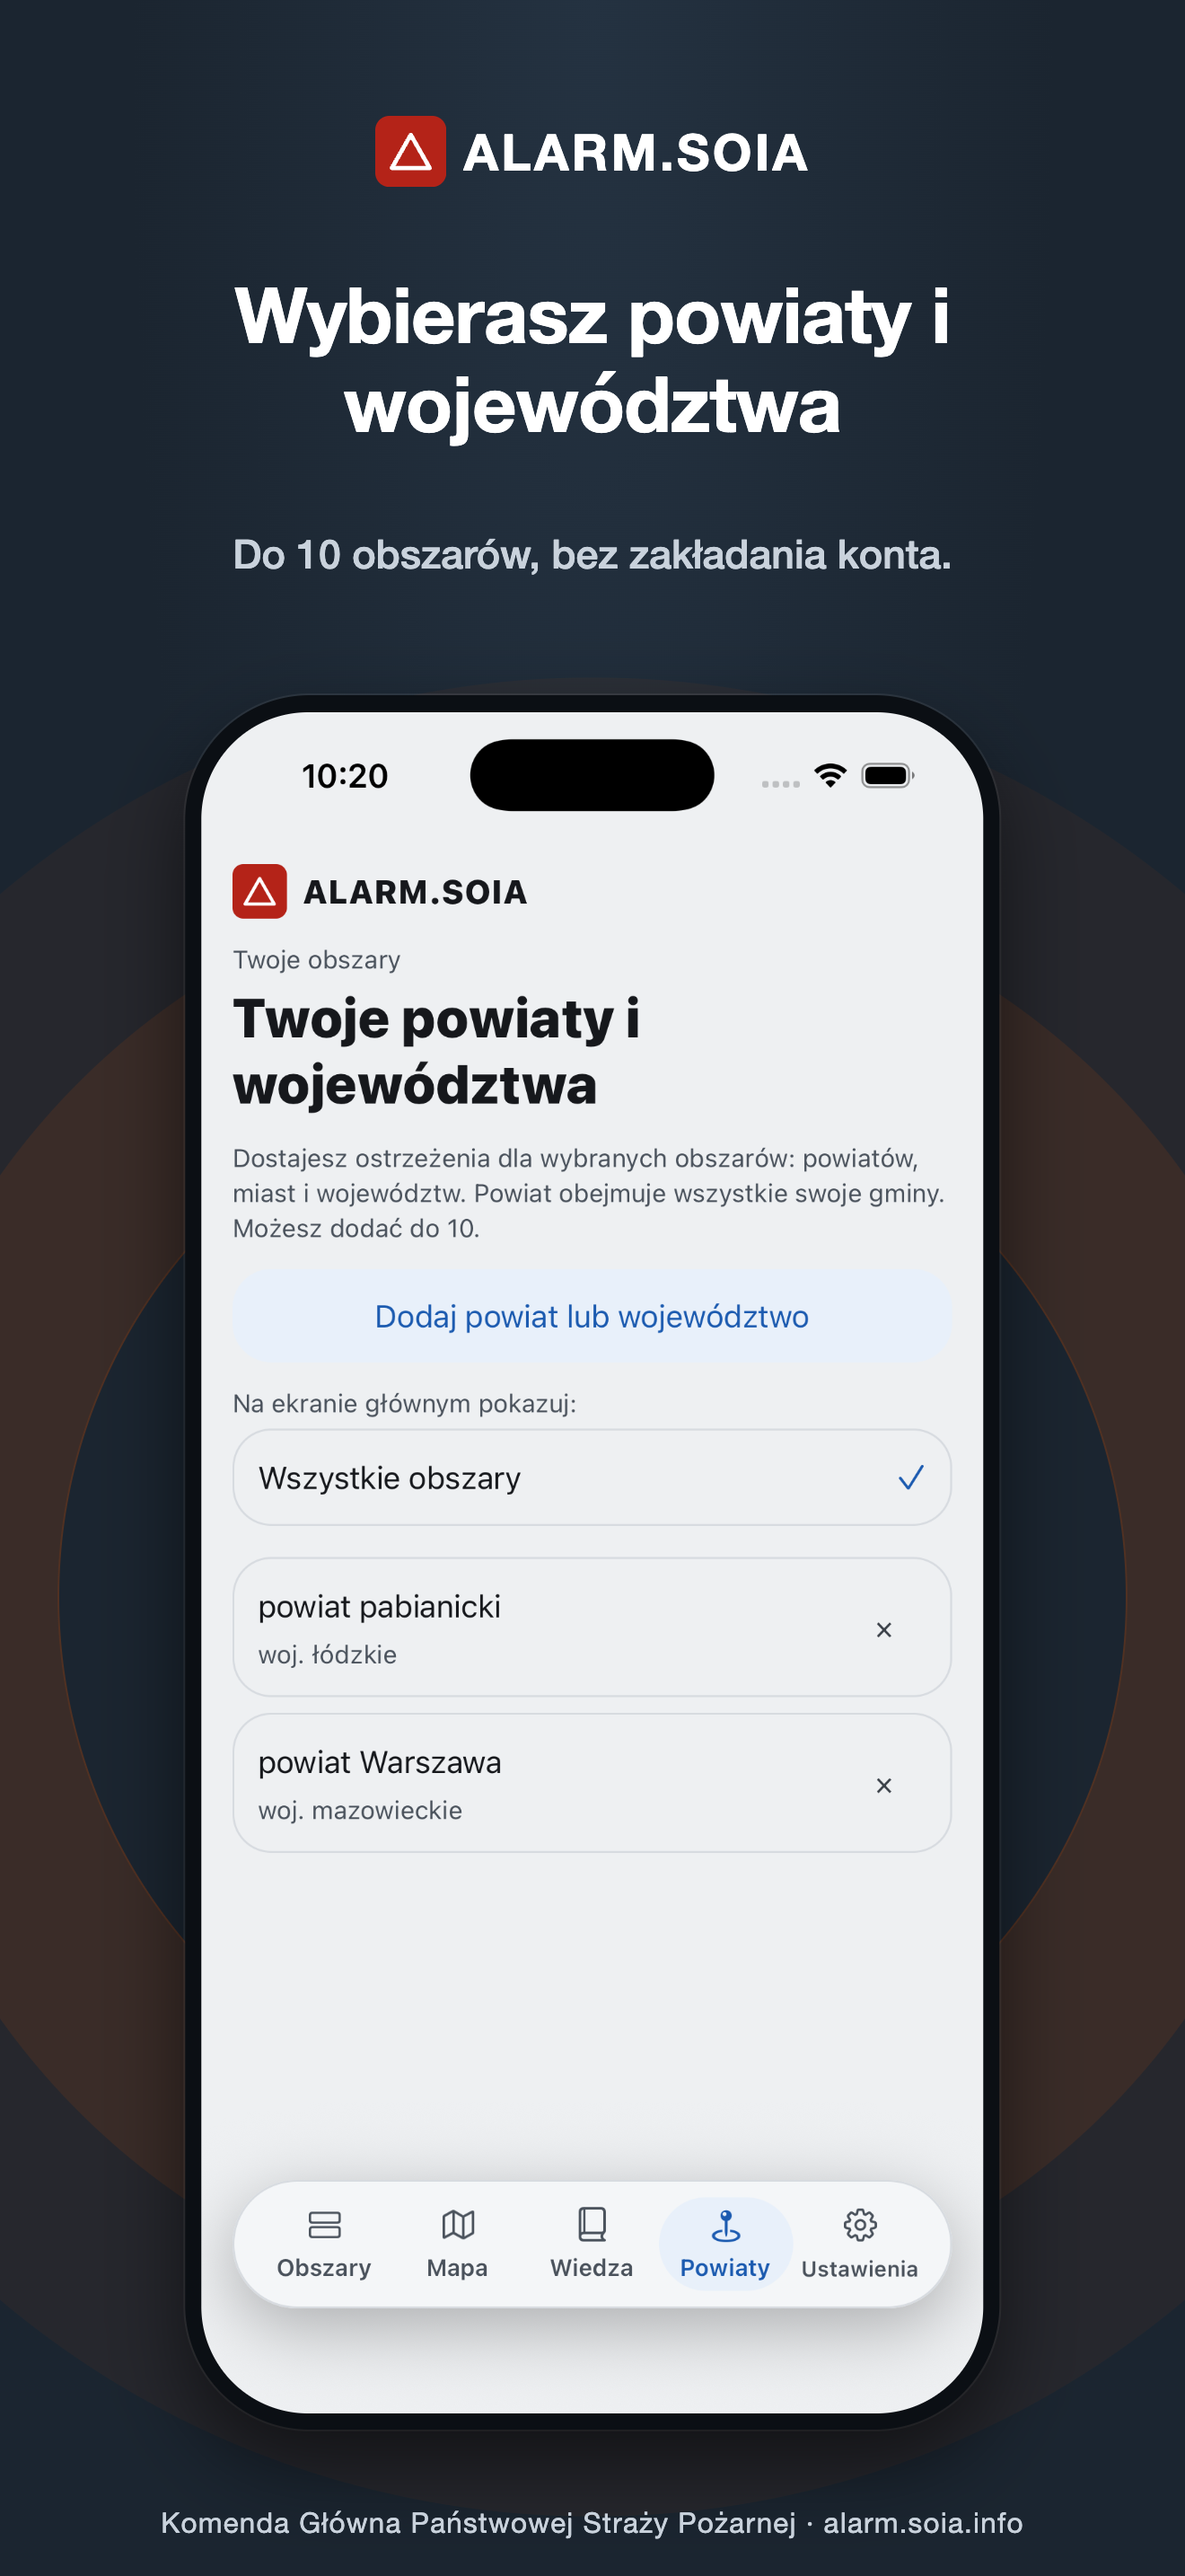
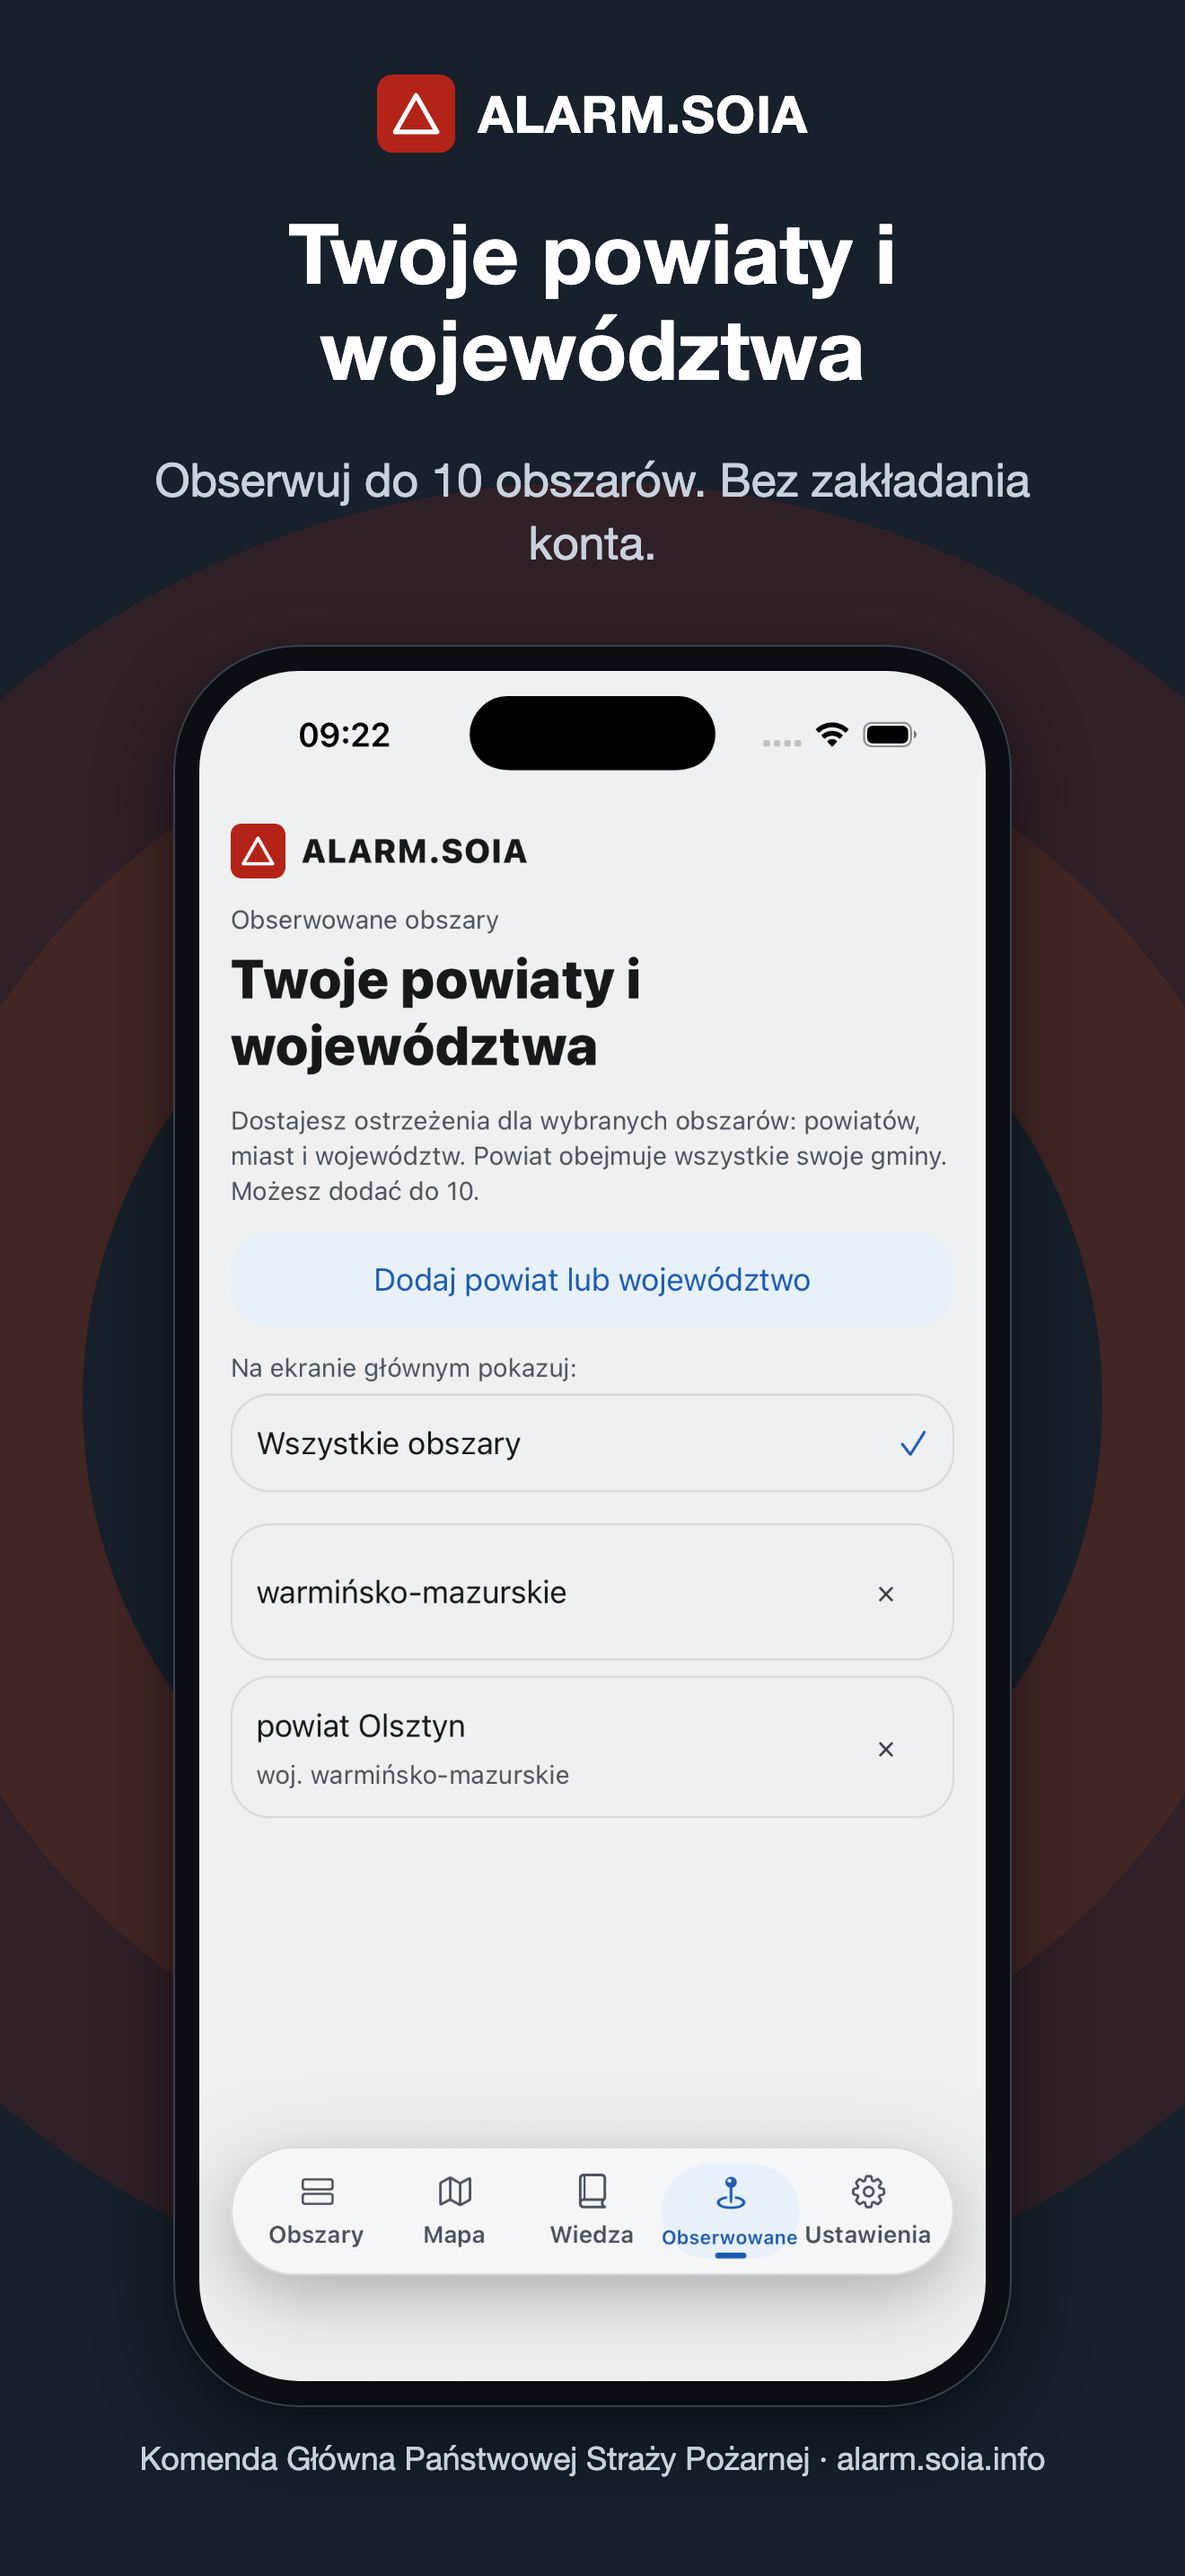
feat(strona): zrzuty ekranu wersji 1.1.2 (iOS i Android) na danych ćwiczebnych
Nowe zrzuty App Store (6,9" i 6,5") i Google Play z prawdziwych urządzeń
(iPhone 17 Pro iOS 26.5, Pixel 8 Android 16), komunikaty ćwiczebne
z alarm.soia.info; opisy alternatywne dopasowane do treści.

Claude-Session: https://claude.ai/code/session_01XphNeVoosKGLk9RBAr1mCp

diff --git a/site/index.html b/site/index.html
@@ -50,7 +50,7 @@
         <p>Trwają otwarte testy wersji 1.1.2: na iPhonie przez TestFlight, na Androidzie wkrótce przez Google Play. Wydanie w App Store i Google Play pozostaje wstrzymane — o ponownym udostępnieniu poinformujemy na tej stronie i w zakładce <a href="wydania">Wydania</a>.</p>
       </div>
       <div class="hero-visual">
-        <img src="assets/google-play/phone/01-obszary.png" width="1080" height="1920" alt="Ekran Obszary aplikacji ALARM.SOIA: karta obszaru z poziomem ostrzeżenia i lista ćwiczebnych ostrzeżeń oznaczonych ĆWICZENIE">
+        <img src="assets/google-play/phone/01-obszary.png" width="1080" height="1920" alt="Ekran Obszary aplikacji ALARM.SOIA w wersji 1.1.2: karta „Alarm · P1 — 2 aktualne ostrzeżenia” i lista ćwiczebnych ostrzeżeń oznaczonych ĆWICZENIE dla województwa warmińsko-mazurskiego">
       </div>
     </section>
 
@@ -84,13 +84,13 @@
     <section class="section" aria-labelledby="ekrany-title">
       <div class="section-heading">
         <h2 id="ekrany-title">Aplikacja na telefon</h2>
-        <p>Zrzuty pokazują prawdziwy interfejs aplikacji z ostrzeżeniami ćwiczebnymi opublikowanymi na potrzeby testów.</p>
+        <p>Zrzuty pokazują prawdziwy interfejs wersji 1.1.2 z ostrzeżeniami ćwiczebnymi opublikowanymi w systemie na potrzeby testów (27 listopada 2026 r.).</p>
       </div>
       <div class="screenshots">
-        <figure><img src="assets/google-play/phone/01-obszary.png" width="1080" height="1920" alt="Ekran Obszary: karta obszaru z najwyższym poziomem ostrzeżenia i lista ćwiczebnych ostrzeżeń oznaczonych ĆWICZENIE"><figcaption>Obszary i aktualne ostrzeżenia</figcaption></figure>
-        <figure><img src="assets/google-play/phone/02-alarm-p1.png" width="1080" height="1920" alt="Pełnoekranowy alarm P1 na czerwonym tle z instrukcją ćwiczebną, czasem obowiązywania i nazwą nadawcy"><figcaption>Pełny ekran alarmu P1</figcaption></figure>
+        <figure><img src="assets/google-play/phone/01-obszary.png" width="1080" height="1920" alt="Ekran Obszary: karta „Alarm · P1 — 2 aktualne ostrzeżenia” i lista ćwiczebnych ostrzeżeń oznaczonych ĆWICZENIE dla województwa warmińsko-mazurskiego"><figcaption>Obszary i aktualne ostrzeżenia</figcaption></figure>
+        <figure><img src="assets/google-play/phone/02-alarm-p1.png" width="1080" height="1920" alt="Pełny ekran pilnego ostrzeżenia P2 na pomarańczowym tle: ćwiczenie „Zamknięcie drogi” w gminie Ostróda z zaleceniem, przyciskiem Przeczytaj i przyciskiem Znajdź punkt schronienia"><figcaption>Pełny ekran ostrzeżenia</figcaption></figure>
         <figure><img src="assets/google-play/phone/03-wiedza.png" width="1080" height="1920" alt="Ekran Wiedza z pozycjami: Jak czytać alerty, Jak brzmi alarm, Poradnik bezpieczeństwa"><figcaption>Wiedza: alerty, syreny, poradnik</figcaption></figure>
-        <figure><img src="assets/google-play/phone/04-powiaty.png" width="1080" height="1920" alt="Zakładka Obserwowane: lista Obserwowane obszary z przyciskiem Dodaj powiat lub województwo"><figcaption>Obserwowane obszary</figcaption></figure>
+        <figure><img src="assets/google-play/phone/04-powiaty.png" width="1080" height="1920" alt="Zakładka Obserwowane: Twoje powiaty i województwa — warmińsko-mazurskie i powiat Olsztyn, z przyciskiem Dodaj powiat lub województwo"><figcaption>Obserwowane obszary</figcaption></figure>
       </div>
       <div class="notice notice--test"><strong>Ostrzeżenia ćwiczebne.</strong> Zrzuty pokazują aplikację w wyglądzie wydania publicznego, a widoczne na nich ostrzeżenia to ćwiczenia oznaczone „ĆWICZENIE:” — ostrzeżenia ćwiczebne są zawsze tak oznaczone. Buildy testowe do wersji 1.0.4 miały dodatkowo u góry ekranu pomarańczowy pasek APLIKACJA TESTOWA; od wersji 1.0.5 paska nie ma.</div>
     </section>
